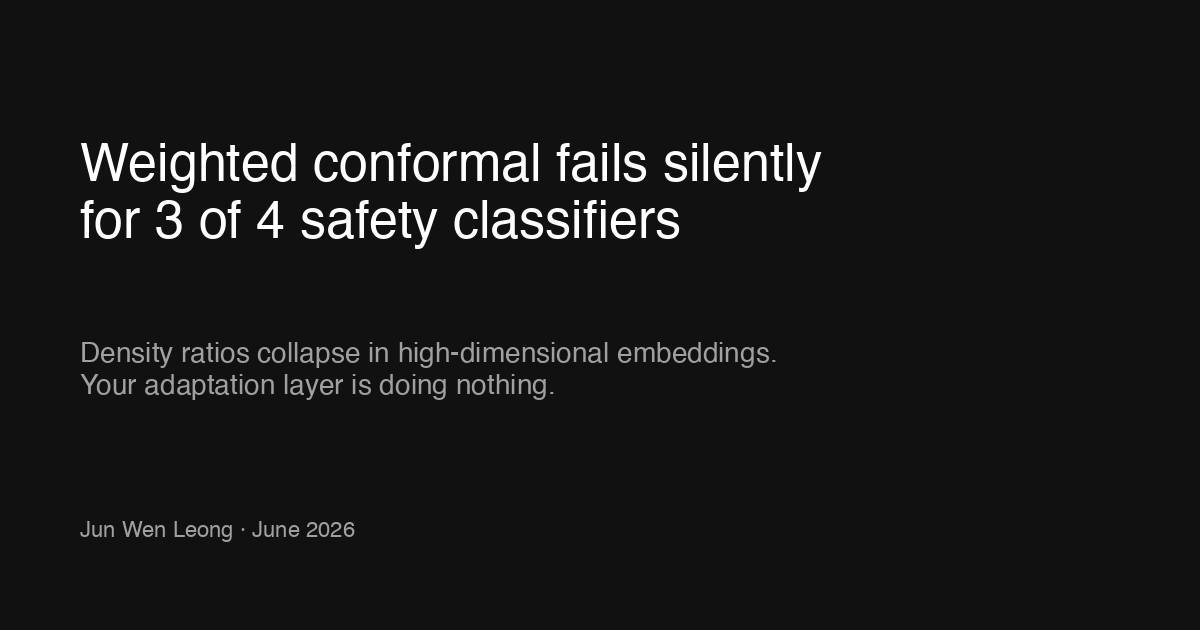
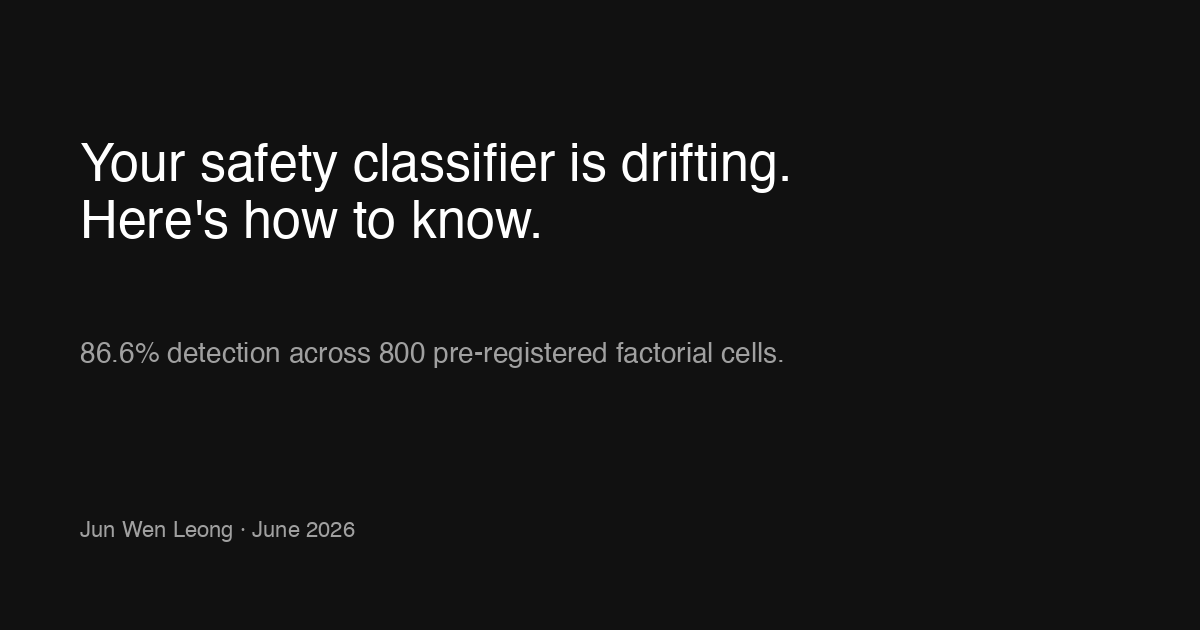
style: update OG image to detection/solution framing

Changed region(s): [[0.0617, 0.2111, 0.7092, 0.3921], [0.0617, 0.5429, 0.6475, 0.6333]]

diff --git a/scripts/gen_og_image.py b/scripts/gen_og_image.py
@@ -21,11 +21,11 @@ except OSError:
     font_author = ImageFont.load_default()
 
 # Main headline - result first
-headline = "Weighted conformal fails silently\nfor 3 of 4 safety classifiers"
+headline = "Your safety classifier is drifting.\nHere's how to know."
 draw.multiline_text((80, 140), headline, fill=white, font=font_large, spacing=16)
 
 # Subline
-subline = "Density ratios collapse in high-dimensional embeddings.\nYour adaptation layer is doing nothing."
+subline = "86.6% detection across 800 pre-registered factorial cells."
 draw.multiline_text((80, 340), subline, fill=grey, font=font_small, spacing=10)
 
 # Author + date
